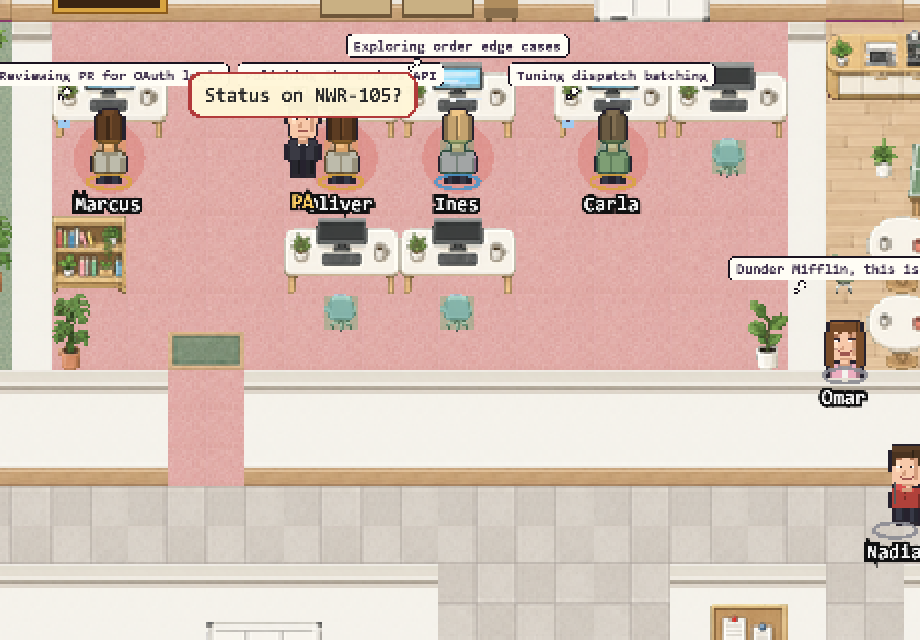
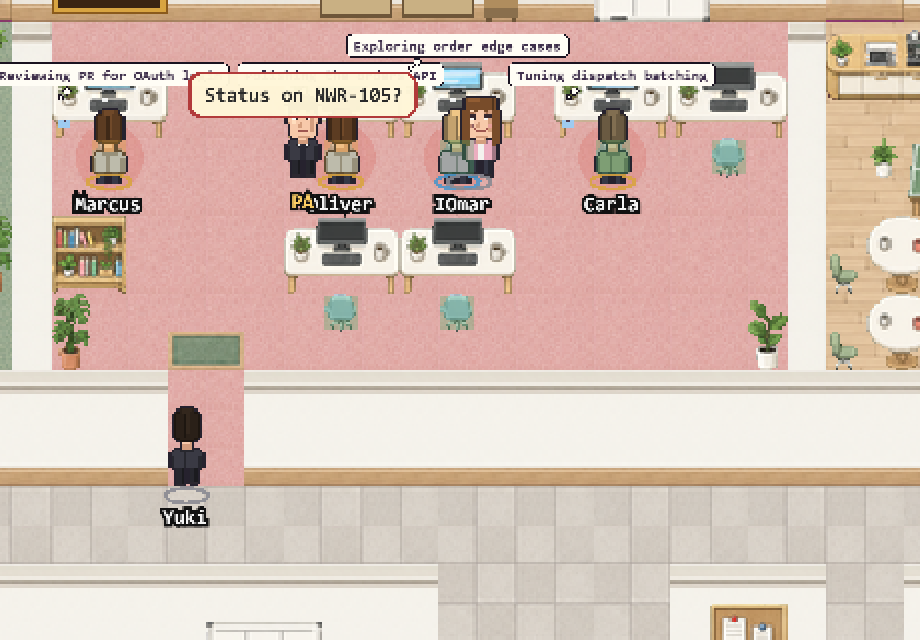
Neutral break-room chatter in place of upstream's Office quotes (cafeteriaLines override); fresh office screenshots

diff --git a/src/overrides/cafeteriaLines.ts b/src/overrides/cafeteriaLines.ts
@@ -1,0 +1,31 @@
+// Override of upstream cafeteriaLines.ts: upstream's break-room chatter quotes The Office by name; these are neutral workplace lines.
+import type { OfficeCharacterName } from "../../vendor/munder-difflin/src/renderer/src/scene/office/cast.js";
+
+export type BreakSpot = "coffee" | "vending" | "snack" | "table";
+type Exchange = readonly string[];
+
+const pick = <T,>(arr: readonly T[], seed: number): T => arr[((seed % arr.length) + arr.length) % arr.length];
+
+const SPOT_POOL: Record<BreakSpot, readonly string[]> = {
+  coffee: ["first cup of the day", "we're out of oat milk again", "who took my mug?", "coffee first, then the backlog", "this machine needs a descale"],
+  vending: ["one snack, then back to it", "the pretzels are gone again", "exact change, finally", "just browsing the options"],
+  snack: ["fruit bowl is looking good", "someone brought cookies", "quick bite before standup", "saving the last apple"],
+  table: ["five minutes of quiet", "reading the release notes", "thinking about that bug", "planning the afternoon"],
+};
+
+const PAIR_POOL: readonly Exchange[] = [
+  ["how's the sprint going?", "better since the fix landed.", "nice, ship it."],
+  ["did the build go green?", "on the second try.", "counts as a win."],
+  ["lunch plans?", "the place across the street.", "save me a seat."],
+  ["who's on call tonight?", "me, sadly.", "I'll bring you coffee."],
+  ["that review was quick.", "small diff, happy reviewer.", "the dream."],
+  ["any blockers?", "waiting on an approval.", "ping the chief."],
+];
+
+export function pickSoloLine(_character: OfficeCharacterName, spot: BreakSpot, seed: number): string {
+  return pick(SPOT_POOL[spot], seed);
+}
+
+export function pickExchange(_speaker: OfficeCharacterName, seed: number): Exchange {
+  return pick(PAIR_POOL, seed);
+}

diff --git a/upstream/overrides.md b/upstream/overrides.md
@@ -9,3 +9,4 @@ Vendor modules replaced at build time (esbuild `upstream-aliases` plugin) when a
 | `scene/office/Character.ts` | `src/overrides/Character.ts` | OfficeFloor keeps each `Character` in a closure too, and its sprite carries no agent id. The subclass registers/unregisters itself by `agentId` so `src/ui/agentLabels.ts` can read `getPixelPosition()` every frame and draw nameplates/issue tags/state rings that follow the walking sprite. |
 
 `tsc` still type-checks OfficeFloor against the upstream files (tsconfig paths cannot remap relative imports), so each override must keep the upstream export signatures.
+| `scene/office/cafeteriaLines.ts` | `src/overrides/cafeteriaLines.ts` | Upstream's break-room chatter quotes The Office by name (Dunder Mifflin, Schrute Farms, "that's what she said"). The override keeps the two exported pickers with neutral workplace lines, per the no-parody default. |
